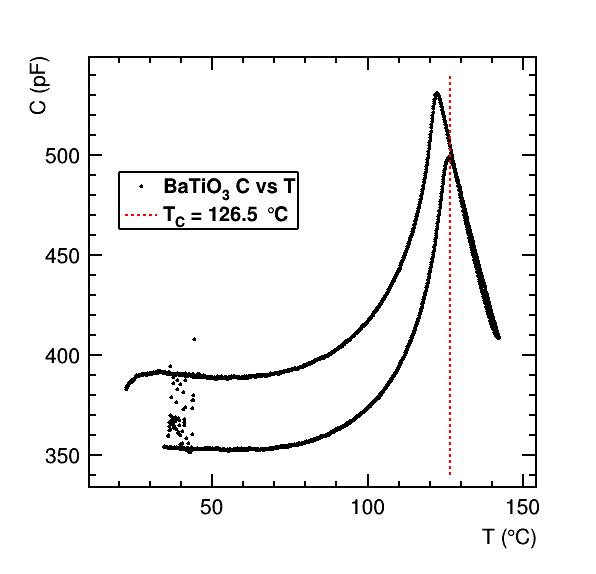
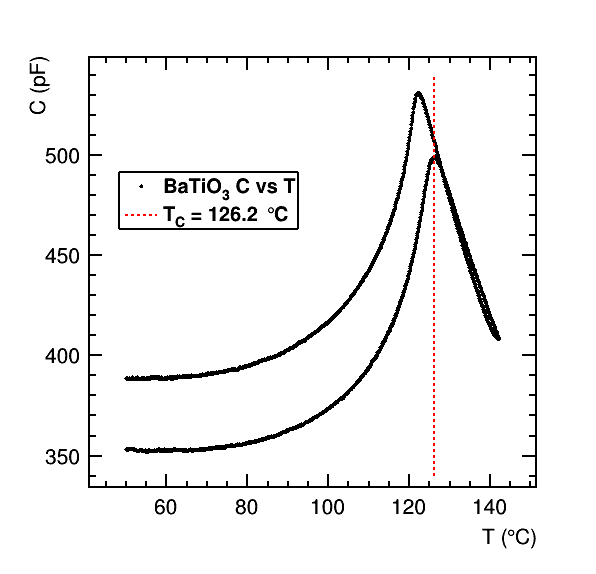
Updating plots for report

diff --git a/PhaseTransitions/makePlot_VvT_VO2.C b/PhaseTransitions/makePlot_VvT_VO2.C
@@ -18,7 +18,7 @@ int makePlot_VvT_VO2(
       R.push_back(V[i]*(997000. + 1029) / (1.99 - V[i]));
 
       pLOG.push_back(TMath::Log(R[i]));
-      TInv.push_back(1 / T[i]);
+      TInv.push_back(1 / (T[i] + 273.15));
 
     }
 
@@ -36,7 +36,7 @@ int makePlot_VvT_VO2(
       REGap.push_back(VEGap[iEGap]*(997000. + 1029) / (1.99 - VEGap[iEGap]));
 
       pLOGEGap.push_back(TMath::Log(REGap[iEGap]));
-      TInvEGap.push_back(1 / TEGap[iEGap]);
+      TInvEGap.push_back(1 / (TEGap[iEGap] + 273.12 ));
 
     }
 
@@ -57,7 +57,7 @@ int makePlot_VvT_VO2(
   TGraph *g_RvT = new TGraph(n, &T[0], &R[0]);
   c3->SetLogy();
   g_RvT->SetTitle("");
-  g_RvT->GetXaxis()->SetTitle("T ( ^{#circ}C)");
+  g_RvT->GetXaxis()->SetTitle("T (#circC)");
   g_RvT->GetYaxis()->SetTitle("R (#Omega)");
   g_RvT->Draw("AP");
 
@@ -88,6 +88,8 @@ int makePlot_VvT_VO2(
   // c4->SetLogy();
   TGraph *g_RvT2 = new TGraph(n, &TInv[0], &pLOG[0]);
   g_RvT2->SetTitle("");
+  g_RvT2->GetXaxis()->SetTitle("#frac{1}{T} (#circ C^{-1})");
+  g_RvT2->GetYaxis()->SetTitle("Log[#frac{#rho}{#rho _{0}}]");
   g_RvT2->Draw("AP");
   TGraph *g_RvTEGap2 = new TGraph(nEGap, &TInvEGap[0], &pLOGEGap[0]);
   g_RvTEGap2->SetMarkerColor(kRed);
@@ -95,21 +97,22 @@ int makePlot_VvT_VO2(
 
   g_RvTEGap2->Fit("pol1");
 
+  cout << 2*8.62*(10**(-5.))*g_RvTEGap2->GetFunction("pol1")->GetParameter(1) << endl;
 
   TLegend *leg2 = new TLegend(0.55, 0.2, 0.8, 0.35);
   leg2->SetNColumns(1);
   leg2->AddEntry(g_RvT, "VO_{2} R vs T", "p");
   leg2->AddEntry(g_RvTEGap2->GetFunction("pol1"), "#splitline{Semiconductor}{Resistivity Law}", "l");
-  leg2->AddEntry((TObject*)0 ,"E_{G} = ", "");
+  leg2->AddEntry((TObject*)0 ,"E_{G} = 0.573 eV", "");
   leg2->Draw();
   /*=====================*/
 
-  TCanvas *c5 = new TCanvas();
-  c5->SetLogy();
-  g_RvT->Draw("AP");
-  TGraph *g_RvTEGap = new TGraph(nEGap, &TEGap[0], &REGap[0]);
-  g_RvTEGap->SetMarkerColor(kRed);
-  g_RvTEGap->Draw("SAME, P");
+  // TCanvas *c5 = new TCanvas();
+  // c5->SetLogy();
+  // g_RvT->Draw("AP");
+  // TGraph *g_RvTEGap = new TGraph(nEGap, &TEGap[0], &REGap[0]);
+  // g_RvTEGap->SetMarkerColor(kRed);
+  // g_RvTEGap->Draw("SAME, P");
 
   // g_RvTEGap->Fit("expo");
 
@@ -123,7 +126,7 @@ int makePlot_VvT_VO2(
 
 
 
-  // c3->Print("report/plots/VO2_RvT_withTC.png");
-
+  c3->Print("report/plots/VO2_RvT_withTC.png");
+  c4->Print("report/plots/VO2_LogRvTInv.png");
   return 0;
 }

diff --git a/PhaseTransitions/report/PhaseTransitions.tex b/PhaseTransitions/report/PhaseTransitions.tex
@@ -67,7 +67,7 @@ In order to find the value of the order parameter corresponding to the phase tra
 \begin{gather}
 	m = 	\begin{cases}
 			0 & T > T_C \\
-			\pm \sqrt{\frac{\alpha_0 (TC - T)}{\beta_0}} & T \le T_C
+			\pm \sqrt{\frac{\alpha_0 (T_C - T)}{\beta_0}} & T \le T_C
 		\end{cases} \nonumber
 \end{gather}
 Physically, this means that above the critical temperature, there is only one state for the system to be in, which corresponds to $m = 0$. Below the critical temperature, this symmetry is broken into two states, one with $+m$ and one with $-m$, each with its own stable minima of $F(T)$. We will measure this parameter, and relate it to important quantities like succeptability $\chi$ and the Curie-Weiss constant, later in the lab. The second order transition we will be studying is the ferroelectric transition of Barium Titanate (BaTiO$_3$) due to its perovskite crystal structure.
@@ -203,6 +203,13 @@ where $V_{in}$ is the voltage output by the lock in amplifier, $R_{Int}$ is the 
 
 The resistances of the sample are plotted on a logarithmic scale in order to better demonstrate at what temperature $V0_{2}$ exhibits a decrease in resistivity of a few orders of magnitude. 
 
+\begin{figure}[H]
+	\centering
+	\includegraphics[width=0.4\textwidth]{VO2_LogRvTInv.png}
+	\caption{$Log(\rho)$ vs. $\frac{1}{T}$ Plot to Find Semiconductor Energy Gap, $E_{g}$}
+	\label{Fig:RvT2}
+\end{figure}
+
 \subsection{Ferroelectric Transition in $BaTiO_{3}$}
 
 \begin{figure}[H]
@@ -210,6 +217,13 @@ The resistances of the sample are plotted on a logarithmic scale in order to bet
 	\includegraphics[width=0.4\textwidth]{BaTiO3_CvT_withTC.png}
 	\caption{Resistance vs Temperature Plot for $BaTiO_{3}$ with a Vertical Line Identifying $T_{C}$ (Red)}
 	\label{Fig:CvT1}
+\end{figure}
+
+\begin{figure}[H]
+	\centering
+	\includegraphics[width=0.4\textwidth]{BaTiO3_kvT.png}
+	\caption{Relative Dielectric Constant vs Temperature Plot for $BaTiO_{3}$ with the Curie-Weiss Law both Above (Red) and Below (Blue) the Critical Temperature $T_{C}$}
+	\label{Fig:kvT}
 \end{figure}
 
 \section{Theoretical Model}

diff --git a/PhaseTransitions/makePlot_VvT_BaTiO3.C b/PhaseTransitions/makePlot_VvT_BaTiO3.C
@@ -120,7 +120,8 @@ int makePlot_VvT_BaTiO3(
   TH1 *h4 = c4->DrawFrame(30., 0., 150., 5000.);
   h4->SetTitle("");   
   h4->GetXaxis()->SetTitle("T (#circC)");
-  h4->GetYaxis()->SetTitle("k ");
+  h4->GetYaxis()->SetTitle("k");
+  h4->GetYaxis()->SetTitleOffset(1.8);
   TGraph *g_kvT = new TGraph(T.size(), &T[0], &k[0]);
 
   for(int iG = 0; iG < g_C2vT->GetN(); iG++)
@@ -149,12 +150,31 @@ int makePlot_VvT_BaTiO3(
   // fit->SetParameters(500., 126.2);
   g_kvT_CW->Fit("fit", "","", 130., 142.);
 
+  double ccw = (fit->GetParameter(0));
+  double p = sqrt( (8.85*10**(-12.))*1.38*10**(-23.)*(fit->GetParameter(0))*(0.4*10**(-9.))**3. );
+
+  cout << ccw << endl;
+  cout << "p = " << p << endl;
+  cout << "x = " << p  / (9.6*10**(-19.)) << endl;
+
+  // cout << "p = " << sqrt( 8.85*10**(-12.)*1.38*10**(-23.)*(fit->GetParameter(0))*(0.4*10**(-9.))**3. ) << endl;
+
+
   TF1* fit2 = new TF1("fit2", "[0]/([1]-x)", 90., 115.);
   fit2->SetParameters(500., 122.);
   g_kvT_Low->Fit("fit2", "","", 90., 115.);
   g_kvT_Low->GetFunction("fit2")->SetLineColor(kBlue);
 
-  // c3->Print("report/plots/BaTiO3_CvT_withTC.png");
+  TLegend *leg2 = new TLegend(0.2, 0.6, 0.55, 0.8);
+  leg2->SetNColumns(1);
+  leg2->AddEntry(g_kvT, "BaTiO_{3} k vs T", "p");
+  leg2->AddEntry(fit, "#splitline{Curie-Weiss Law for T > T_{C}}{C_{CW} = 10523 #pm 24}", "l");
+  leg2->AddEntry(g_kvT_Low->GetFunction("fit2"), "#splitline{Curie-Weiss Law for T < T_{C}}{C_{CW} = 19677 #pm 250}", "l");
+  leg2->Draw();
+
+
+  c3->Print("report/plots/BaTiO3_CvT_withTC.png");
+  c4->Print("report/plots/BaTiO3_kvT.png");
 
   return 0;
 }
